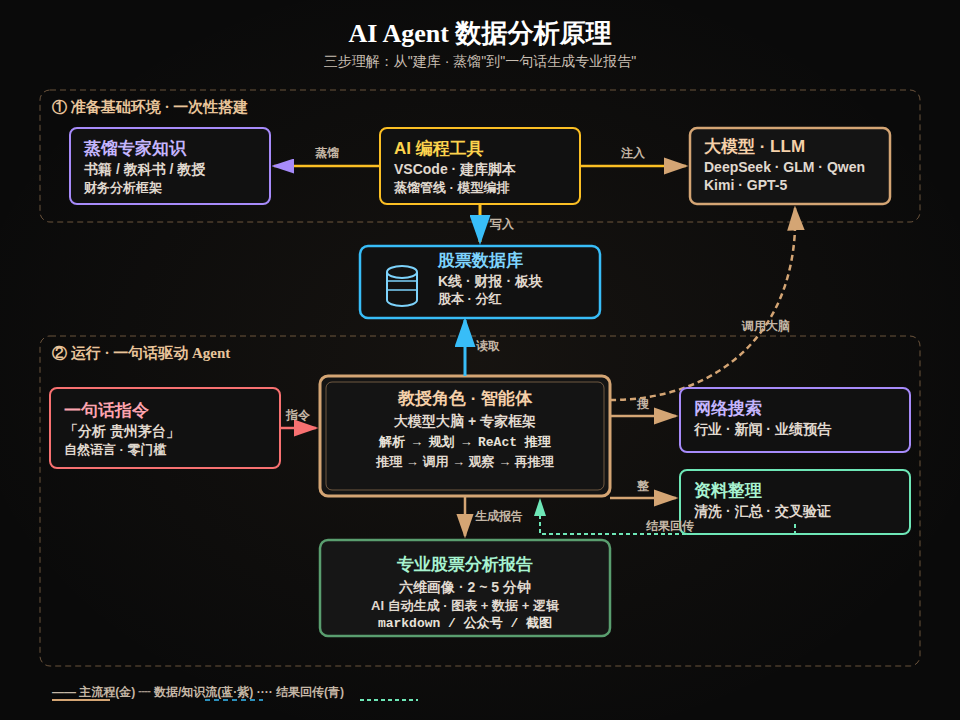
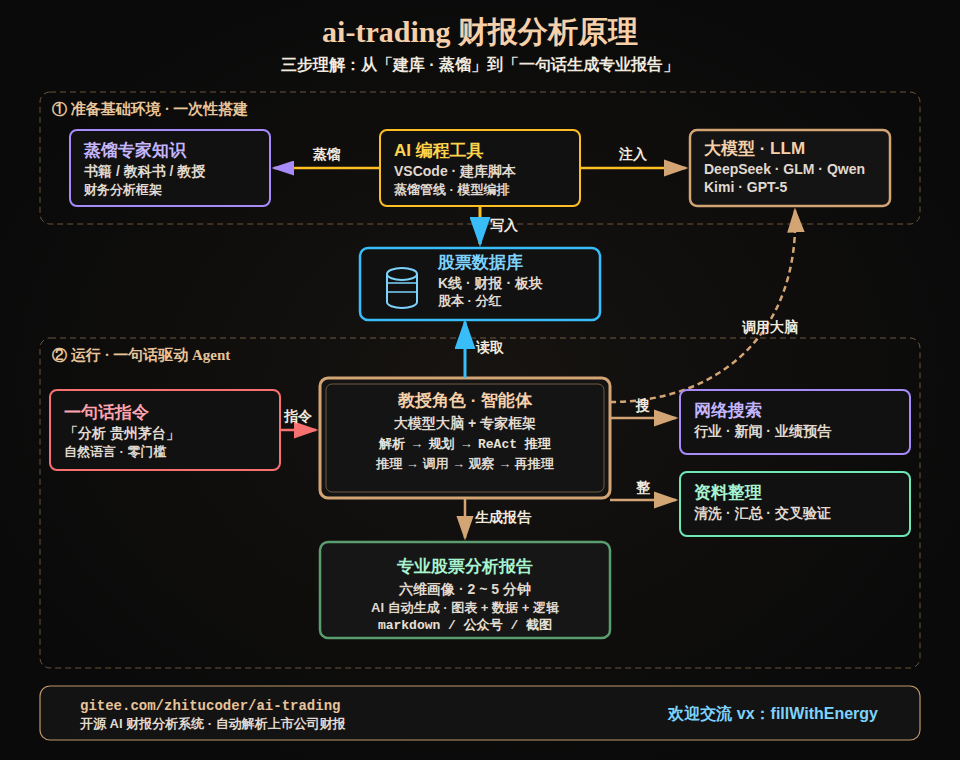
docs: AI Agent数据分析原理图优化 — 标题改亮金色、箭头标签加粗提亮、去回传箭头、底部加项目地址+交流微信横幅

diff --git a/docs/AI_Agent_数据分析原理_生成脚本.py b/docs/AI_Agent_数据分析原理_生成脚本.py
@@ -1,7 +1,7 @@
 lines = []
 a = lines.append
 
-a('<svg xmlns="http://www.w3.org/2000/svg" viewBox="0 0 960 720">')
+a('<svg xmlns="http://www.w3.org/2000/svg" viewBox="0 0 960 760">')
 a('<defs>')
 a('  <radialGradient id="glow" cx="50%" cy="50%" r="55%">')
 a('    <stop offset="0%" stop-color="#d4a574" stop-opacity="0.06"/>')
@@ -10,136 +10,133 @@ a('  </radialGradient>')
 a('  <marker id="arr-gold" markerWidth="10" markerHeight="7" refX="9" refY="3.5" orient="auto"><polygon points="0 0,10 3.5,0 7" fill="#d4a574"/></marker>')
 a('  <marker id="arr-blue" markerWidth="10" markerHeight="7" refX="9" refY="3.5" orient="auto"><polygon points="0 0,10 3.5,0 7" fill="#38bdf8"/></marker>')
 a('  <marker id="arr-violet" markerWidth="9" markerHeight="6" refX="8" refY="3" orient="auto"><polygon points="0 0,9 3,0 6" fill="#a78bfa"/></marker>')
-a('  <marker id="arr-mint" markerWidth="9" markerHeight="6" refX="8" refY="3" orient="auto"><polygon points="0 0,9 3,0 6" fill="#6ee7b7"/></marker>')
 a('  <marker id="arr-rose" markerWidth="10" markerHeight="7" refX="9" refY="3.5" orient="auto"><polygon points="0 0,10 3.5,0 7" fill="#f87171"/></marker>')
 a('  <marker id="arr-amber" markerWidth="10" markerHeight="7" refX="9" refY="3.5" orient="auto"><polygon points="0 0,10 3.5,0 7" fill="#fbbf24"/></marker>')
 a('</defs>')
 a('<style>')
 a('  text { font-family: -apple-system,"Helvetica Neue",Arial,"PingFang SC","Microsoft YaHei",sans-serif; }')
-a('  .ttl { font-family: Georgia,"Times New Roman",serif; font-size: 26px; font-weight: 700; fill: #ffffff; }')
-a('  .sub { font-size: 14px; fill: #c9bfb3; }')
+a('  .ttl { font-family: Georgia,"Times New Roman",serif; font-size: 30px; font-weight: 700; fill: #f5d0a9; }')
+a('  .sub { font-size: 16px; fill: #f0e9df; font-weight: 700; }')
 a('  .lbl { font-family: Georgia,"Times New Roman",serif; font-size: 15px; font-weight: 700; fill: #e8c49a; opacity: 1; }')
 a('  .nm { font-size: 17px; font-weight: 700; }')
 a('  .sm { font-size: 14px; fill: #e0d9cf; font-weight: 600; }')
 a('  .xs { font-size: 13px; fill: #e0d9cf; font-weight: 600; }')
-a('  .al { font-size: 12px; fill: #c4b6a5; font-weight: 600; }')
+a('  .al { font-size: 14px; fill: #f0e9df; font-weight: 700; }')
 a('  .fn { font-family: "Cascadia Code","SF Mono","Courier New",monospace; font-size: 13px; fill: #e8e2d9; font-weight: 700; }')
+a('  .repo { font-family: "Cascadia Code","SF Mono","Courier New",monospace; font-size: 14px; fill: #e8c49a; font-weight: 700; }')
+a('  .vx { font-size: 16px; fill: #7dd3fc; font-weight: 700; }')
 a('</style>')
-a('<rect width="960" height="720" fill="url(#glow)"/>')
+a('<rect width="960" height="760" fill="url(#glow)"/>')
 
 # 标题
-a('<text x="480" y="42" text-anchor="middle" class="ttl">AI Agent 数据分析原理</text>')
-a('<text x="480" y="66" text-anchor="middle" class="sub">三步理解：从"建库 · 蒸馏"到"一句话生成专业报告"</text>')
+a('<text x="480" y="42" text-anchor="middle" class="ttl">ai-trading 财报分析原理</text>')
+a('<text x="480" y="70" text-anchor="middle" class="sub">三步理解：从「建库 · 蒸馏」到「一句话生成专业报告」</text>')
 
 # ============ 容器1：准备基础环境 ============
-a('<rect x="40" y="90" width="880" height="132" rx="10" fill="none" stroke="#d4a574" stroke-width="0.8" stroke-dasharray="6,4" opacity="0.6"/>')
-a('<text x="52" y="112" class="lbl">① 准备基础环境 · 一次性搭建</text>')
+a('<rect x="40" y="92" width="880" height="132" rx="10" fill="none" stroke="#d4a574" stroke-width="0.8" stroke-dasharray="6,4" opacity="0.6"/>')
+a('<text x="52" y="114" class="lbl">① 准备基础环境 · 一次性搭建</text>')
 
 # 蒸馏专家知识（左·紫）
-a('<rect x="70" y="128" width="200" height="76" rx="7" fill="#111111" stroke="#a78bfa" stroke-width="2"/>')
-a('<text x="84" y="154" class="nm" fill="#c4b5fd">蒸馏专家知识</text>')
-a('<text x="84" y="174" class="sm">书籍 / 教科书 / 教授</text>')
-a('<text x="84" y="192" class="xs">财务分析框架</text>')
+a('<rect x="70" y="130" width="200" height="76" rx="7" fill="#111111" stroke="#a78bfa" stroke-width="2"/>')
+a('<text x="84" y="156" class="nm" fill="#c4b5fd">蒸馏专家知识</text>')
+a('<text x="84" y="176" class="sm">书籍 / 教科书 / 教授</text>')
+a('<text x="84" y="194" class="xs">财务分析框架</text>')
 
 # AI编程工具（中·琥珀）
-a('<rect x="380" y="128" width="200" height="76" rx="7" fill="#111111" stroke="#fbbf24" stroke-width="2"/>')
-a('<text x="394" y="154" class="nm" fill="#fcd34d">AI 编程工具</text>')
-a('<text x="394" y="174" class="sm">VSCode · 建库脚本</text>')
-a('<text x="394" y="192" class="xs">蒸馏管线 · 模型编排</text>')
+a('<rect x="380" y="130" width="200" height="76" rx="7" fill="#111111" stroke="#fbbf24" stroke-width="2"/>')
+a('<text x="394" y="156" class="nm" fill="#fcd34d">AI 编程工具</text>')
+a('<text x="394" y="176" class="sm">VSCode · 建库脚本</text>')
+a('<text x="394" y="194" class="xs">蒸馏管线 · 模型编排</text>')
 
 # 大模型（右·金）
-a('<rect x="690" y="128" width="200" height="76" rx="7" fill="#141414" stroke="#d4a574" stroke-width="2.5"/>')
-a('<text x="704" y="152" class="nm" fill="#f5d0a9">大模型 · LLM</text>')
-a('<text x="704" y="172" class="sm">DeepSeek · GLM · Qwen</text>')
-a('<text x="704" y="190" class="sm">Kimi · GPT-5</text>')
+a('<rect x="690" y="130" width="200" height="76" rx="7" fill="#141414" stroke="#d4a574" stroke-width="2.5"/>')
+a('<text x="704" y="154" class="nm" fill="#f5d0a9">大模型 · LLM</text>')
+a('<text x="704" y="174" class="sm">DeepSeek · GLM · Qwen</text>')
+a('<text x="704" y="192" class="sm">Kimi · GPT-5</text>')
 
 # 箭头：AI编程工具 → 蒸馏专家知识（左）
-a('<path d="M 380 166 L 274 166" fill="none" stroke="#fbbf24" stroke-width="2.5" marker-end="url(#arr-violet)"/>')
-a('<text x="327" y="157" text-anchor="middle" class="al">蒸馏</text>')
+a('<path d="M 380 168 L 274 168" fill="none" stroke="#fbbf24" stroke-width="2.5" marker-end="url(#arr-violet)"/>')
+a('<text x="327" y="159" text-anchor="middle" class="al">蒸馏</text>')
 # 箭头：AI编程工具 → 大模型（右）
-a('<path d="M 580 166 L 686 166" fill="none" stroke="#fbbf24" stroke-width="2.5" marker-end="url(#arr-gold)"/>')
-a('<text x="633" y="157" text-anchor="middle" class="al">注入</text>')
+a('<path d="M 580 168 L 686 168" fill="none" stroke="#fbbf24" stroke-width="2.5" marker-end="url(#arr-gold)"/>')
+a('<text x="633" y="159" text-anchor="middle" class="al">注入</text>')
 
 # ============ 股票数据库（中间层 · 蓝色圆柱体） ============
-a('<rect x="360" y="246" width="240" height="72" rx="8" fill="#111111" stroke="#38bdf8" stroke-width="2.5"/>')
-a('<ellipse cx="402" cy="272" rx="15" ry="6" fill="none" stroke="#7dd3fc" stroke-width="2"/>')
-a('<path d="M 387 272 L 387 300 M 417 272 L 417 300" fill="none" stroke="#7dd3fc" stroke-width="2"/>')
-a('<path d="M 387 300 A 15 6 0 0 0 417 300" fill="none" stroke="#7dd3fc" stroke-width="2"/>')
-a('<line x1="387" y1="281" x2="417" y2="281" stroke="#7dd3fc" stroke-width="1.5"/>')
-a('<line x1="387" y1="290" x2="417" y2="290" stroke="#7dd3fc" stroke-width="1.5"/>')
-a('<text x="438" y="266" class="nm" fill="#7dd3fc">股票数据库</text>')
-a('<text x="438" y="286" class="sm">K线 · 财报 · 板块</text>')
-a('<text x="438" y="303" class="xs">股本 · 分红</text>')
+a('<rect x="360" y="248" width="240" height="72" rx="8" fill="#111111" stroke="#38bdf8" stroke-width="2.5"/>')
+a('<ellipse cx="402" cy="274" rx="15" ry="6" fill="none" stroke="#7dd3fc" stroke-width="2"/>')
+a('<path d="M 387 274 L 387 302 M 417 274 L 417 302" fill="none" stroke="#7dd3fc" stroke-width="2"/>')
+a('<path d="M 387 302 A 15 6 0 0 0 417 302" fill="none" stroke="#7dd3fc" stroke-width="2"/>')
+a('<line x1="387" y1="283" x2="417" y2="283" stroke="#7dd3fc" stroke-width="1.5"/>')
+a('<line x1="387" y1="292" x2="417" y2="292" stroke="#7dd3fc" stroke-width="1.5"/>')
+a('<text x="438" y="268" class="nm" fill="#7dd3fc">股票数据库</text>')
+a('<text x="438" y="288" class="sm">K线 · 财报 · 板块</text>')
+a('<text x="438" y="305" class="xs">股本 · 分红</text>')
 
 # 箭头：AI编程工具 → 数据库（向下 · 写入）
-a('<line x1="480" y1="204" x2="480" y2="242" stroke="#fbbf24" stroke-width="3" marker-end="url(#arr-blue)"/>')
-a('<text x="490" y="228" class="al">写入</text>')
+a('<line x1="480" y1="206" x2="480" y2="244" stroke="#fbbf24" stroke-width="3" marker-end="url(#arr-blue)"/>')
+a('<text x="490" y="230" class="al">写入</text>')
 
 # ============ 容器2：运行 Agent ============
-a('<rect x="40" y="336" width="880" height="330" rx="10" fill="none" stroke="#d4a574" stroke-width="0.8" stroke-dasharray="6,4" opacity="0.6"/>')
-a('<text x="52" y="358" class="lbl">② 运行 · 一句话驱动 Agent</text>')
+a('<rect x="40" y="338" width="880" height="330" rx="10" fill="none" stroke="#d4a574" stroke-width="0.8" stroke-dasharray="6,4" opacity="0.6"/>')
+a('<text x="52" y="360" class="lbl">② 运行 · 一句话驱动 Agent</text>')
 
 # 用户指令
-a('<rect x="50" y="388" width="230" height="80" rx="7" fill="#111111" stroke="#f87171" stroke-width="2"/>')
-a('<text x="64" y="416" class="nm" fill="#fda4af">一句话指令</text>')
-a('<text x="64" y="436" class="sm">「分析 贵州茅台」</text>')
-a('<text x="64" y="454" class="xs">自然语言 · 零门槛</text>')
+a('<rect x="50" y="390" width="230" height="80" rx="7" fill="#111111" stroke="#f87171" stroke-width="2"/>')
+a('<text x="64" y="418" class="nm" fill="#fda4af">一句话指令</text>')
+a('<text x="64" y="438" class="sm">「分析 贵州茅台」</text>')
+a('<text x="64" y="456" class="xs">自然语言 · 零门槛</text>')
 
 # Agent 核心（金色双边框）
-a('<rect x="320" y="376" width="290" height="120" rx="8" fill="#141414" stroke="#d4a574" stroke-width="3"/>')
-a('<rect x="326" y="382" width="278" height="108" rx="6" fill="none" stroke="#d4a574" stroke-width="0.8" opacity="0.6"/>')
-a('<text x="465" y="404" text-anchor="middle" class="nm" fill="#f5d0a9">教授角色 · 智能体</text>')
-a('<text x="465" y="426" text-anchor="middle" class="sm">大模型大脑 + 专家框架</text>')
-a('<text x="465" y="446" text-anchor="middle" class="fn">解析 → 规划 → ReAct 推理</text>')
-a('<text x="465" y="466" text-anchor="middle" class="xs">推理 → 调用 → 观察 → 再推理</text>')
+a('<rect x="320" y="378" width="290" height="120" rx="8" fill="#141414" stroke="#d4a574" stroke-width="3"/>')
+a('<rect x="326" y="384" width="278" height="108" rx="6" fill="none" stroke="#d4a574" stroke-width="0.8" opacity="0.6"/>')
+a('<text x="465" y="406" text-anchor="middle" class="nm" fill="#f5d0a9">教授角色 · 智能体</text>')
+a('<text x="465" y="428" text-anchor="middle" class="sm">大模型大脑 + 专家框架</text>')
+a('<text x="465" y="448" text-anchor="middle" class="fn">解析 → 规划 → ReAct 推理</text>')
+a('<text x="465" y="468" text-anchor="middle" class="xs">推理 → 调用 → 观察 → 再推理</text>')
 
 # 箭头：Agent → 数据库（向上 · 读取）
-a('<line x1="465" y1="376" x2="465" y2="320" stroke="#38bdf8" stroke-width="3" marker-end="url(#arr-blue)"/>')
-a('<text x="476" y="350" class="al">读取</text>')
+a('<line x1="465" y1="378" x2="465" y2="322" stroke="#38bdf8" stroke-width="3" marker-end="url(#arr-blue)"/>')
+a('<text x="476" y="352" class="al">读取</text>')
 
-# 箭头：Agent → 大模型（智能体调用大模型 · 从Agent右上角曲线到大模型）
-a('<path d="M 610 400 C 720 400, 800 330, 795 208" fill="none" stroke="#d4a574" stroke-width="2.5" stroke-dasharray="6,4" marker-end="url(#arr-gold)"/>')
-a('<text x="742" y="330" class="al">调用大脑</text>')
+# 箭头：Agent → 大模型（智能体调用大模型）
+a('<path d="M 610 402 C 720 402, 800 332, 795 210" fill="none" stroke="#d4a574" stroke-width="2.5" stroke-dasharray="6,4" marker-end="url(#arr-gold)"/>')
+a('<text x="742" y="332" class="al">调用大脑</text>')
 
 # 右侧工具：网络搜索 + 资料整理
-a('<rect x="680" y="388" width="230" height="64" rx="7" fill="#111111" stroke="#a78bfa" stroke-width="2"/>')
-a('<text x="694" y="414" class="nm" fill="#c4b5fd">网络搜索</text>')
-a('<text x="694" y="434" class="sm">行业 · 新闻 · 业绩预告</text>')
+a('<rect x="680" y="390" width="230" height="64" rx="7" fill="#111111" stroke="#a78bfa" stroke-width="2"/>')
+a('<text x="694" y="416" class="nm" fill="#c4b5fd">网络搜索</text>')
+a('<text x="694" y="436" class="sm">行业 · 新闻 · 业绩预告</text>')
 
-a('<rect x="680" y="470" width="230" height="64" rx="7" fill="#111111" stroke="#6ee7b7" stroke-width="2"/>')
-a('<text x="694" y="496" class="nm" fill="#a7f3d0">资料整理</text>')
-a('<text x="694" y="516" class="sm">清洗 · 汇总 · 交叉验证</text>')
+a('<rect x="680" y="472" width="230" height="64" rx="7" fill="#111111" stroke="#6ee7b7" stroke-width="2"/>')
+a('<text x="694" y="498" class="nm" fill="#a7f3d0">资料整理</text>')
+a('<text x="694" y="518" class="sm">清洗 · 汇总 · 交叉验证</text>')
 
 # 报告输出
-a('<rect x="320" y="540" width="290" height="96" rx="8" fill="#161616" stroke="#5a9e6f" stroke-width="2.5"/>')
-a('<text x="465" y="570" text-anchor="middle" class="nm" fill="#a7f3d0">专业股票分析报告</text>')
-a('<text x="465" y="592" text-anchor="middle" class="sm">六维画像 · 2 ~ 5 分钟</text>')
-a('<text x="465" y="610" text-anchor="middle" class="xs">AI 自动生成 · 图表 + 数据 + 逻辑</text>')
-a('<text x="465" y="627" text-anchor="middle" class="fn">markdown / 公众号 / 截图</text>')
+a('<rect x="320" y="542" width="290" height="96" rx="8" fill="#161616" stroke="#5a9e6f" stroke-width="2.5"/>')
+a('<text x="465" y="572" text-anchor="middle" class="nm" fill="#a7f3d0">专业股票分析报告</text>')
+a('<text x="465" y="594" text-anchor="middle" class="sm">六维画像 · 2 ~ 5 分钟</text>')
+a('<text x="465" y="612" text-anchor="middle" class="xs">AI 自动生成 · 图表 + 数据 + 逻辑</text>')
+a('<text x="465" y="629" text-anchor="middle" class="fn">markdown / 公众号 / 截图</text>')
 
 # 箭头：用户 → Agent
-a('<line x1="280" y1="428" x2="316" y2="428" stroke="#f87171" stroke-width="2.5" marker-end="url(#arr-rose)"/>')
-a('<text x="298" y="419" text-anchor="middle" class="al">指令</text>')
+a('<line x1="280" y1="430" x2="316" y2="430" stroke="#f87171" stroke-width="2.5" marker-end="url(#arr-rose)"/>')
+a('<text x="298" y="421" text-anchor="middle" class="al">指令</text>')
 
-# 箭头：Agent → 工具（两条）
-a('<path d="M 610 416 L 676 416" fill="none" stroke="#d4a574" stroke-width="2.5" marker-end="url(#arr-gold)"/>')
-a('<text x="643" y="408" text-anchor="middle" class="al">搜</text>')
-a('<path d="M 610 498 L 676 498" fill="none" stroke="#d4a574" stroke-width="2.5" marker-end="url(#arr-gold)"/>')
-a('<text x="643" y="490" text-anchor="middle" class="al">整</text>')
-
-# 工具回传
-a('<path d="M 795 524 L 795 534 L 540 534 L 540 500" fill="none" stroke="#6ee7b7" stroke-width="2" stroke-dasharray="4,3" marker-end="url(#arr-mint)"/>')
-a('<text x="670" y="530" text-anchor="middle" class="al">结果回传</text>')
+# 箭头：Agent → 工具（两条，无回传）
+a('<path d="M 610 418 L 676 418" fill="none" stroke="#d4a574" stroke-width="2.5" marker-end="url(#arr-gold)"/>')
+a('<text x="643" y="410" text-anchor="middle" class="al">搜</text>')
+a('<path d="M 610 500 L 676 500" fill="none" stroke="#d4a574" stroke-width="2.5" marker-end="url(#arr-gold)"/>')
+a('<text x="643" y="492" text-anchor="middle" class="al">整</text>')
 
 # 箭头：Agent → 报告
-a('<line x1="465" y1="496" x2="465" y2="536" stroke="#d4a574" stroke-width="2.5" marker-end="url(#arr-gold)"/>')
-a('<text x="475" y="520" class="al">生成报告</text>')
+a('<line x1="465" y1="498" x2="465" y2="538" stroke="#d4a574" stroke-width="2.5" marker-end="url(#arr-gold)"/>')
+a('<text x="475" y="522" class="al">生成报告</text>')
 
-# 图例
-a('<text x="52" y="696" class="al">—— 主流程(金)  ┈ 数据/知识流(蓝·紫)  ···· 结果回传(青)  </text>')
-a('<line x1="52" y1="700" x2="110" y2="700" stroke="#d4a574" stroke-width="2"/>')
-a('<line x1="205" y1="700" x2="263" y2="700" stroke="#38bdf8" stroke-width="1.5" stroke-dasharray="5,4"/>')
-a('<line x1="360" y1="700" x2="418" y2="700" stroke="#6ee7b7" stroke-width="2" stroke-dasharray="4,3"/>')
+# ============ 底部横幅：项目地址 + 交流 ============
+a('<rect x="40" y="686" width="880" height="54" rx="10" fill="#141414" stroke="#d4a574" stroke-width="1.2" opacity="0.9"/>')
+a('<text x="80" y="710" text-anchor="start" class="repo">gitee.com/zhitucoder/ai-trading</text>')
+a('<text x="80" y="728" text-anchor="start" class="xs">开源 AI 财报分析系统 · 自动解析上市公司财报</text>')
+a('<text x="878" y="719" text-anchor="end" class="vx">欢迎交流 vx：fillWithEnergy</text>')
 
 a('</svg>')
 
